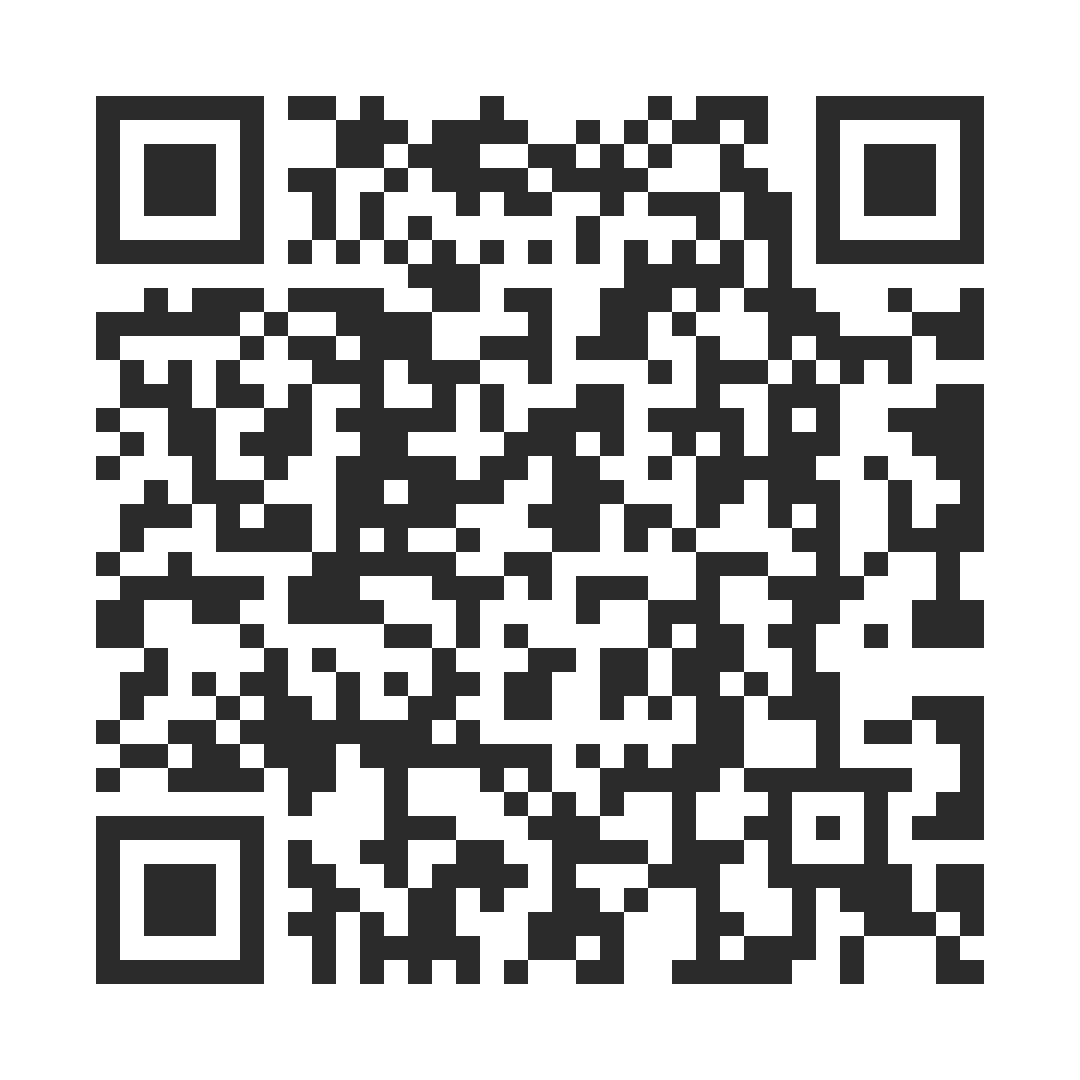
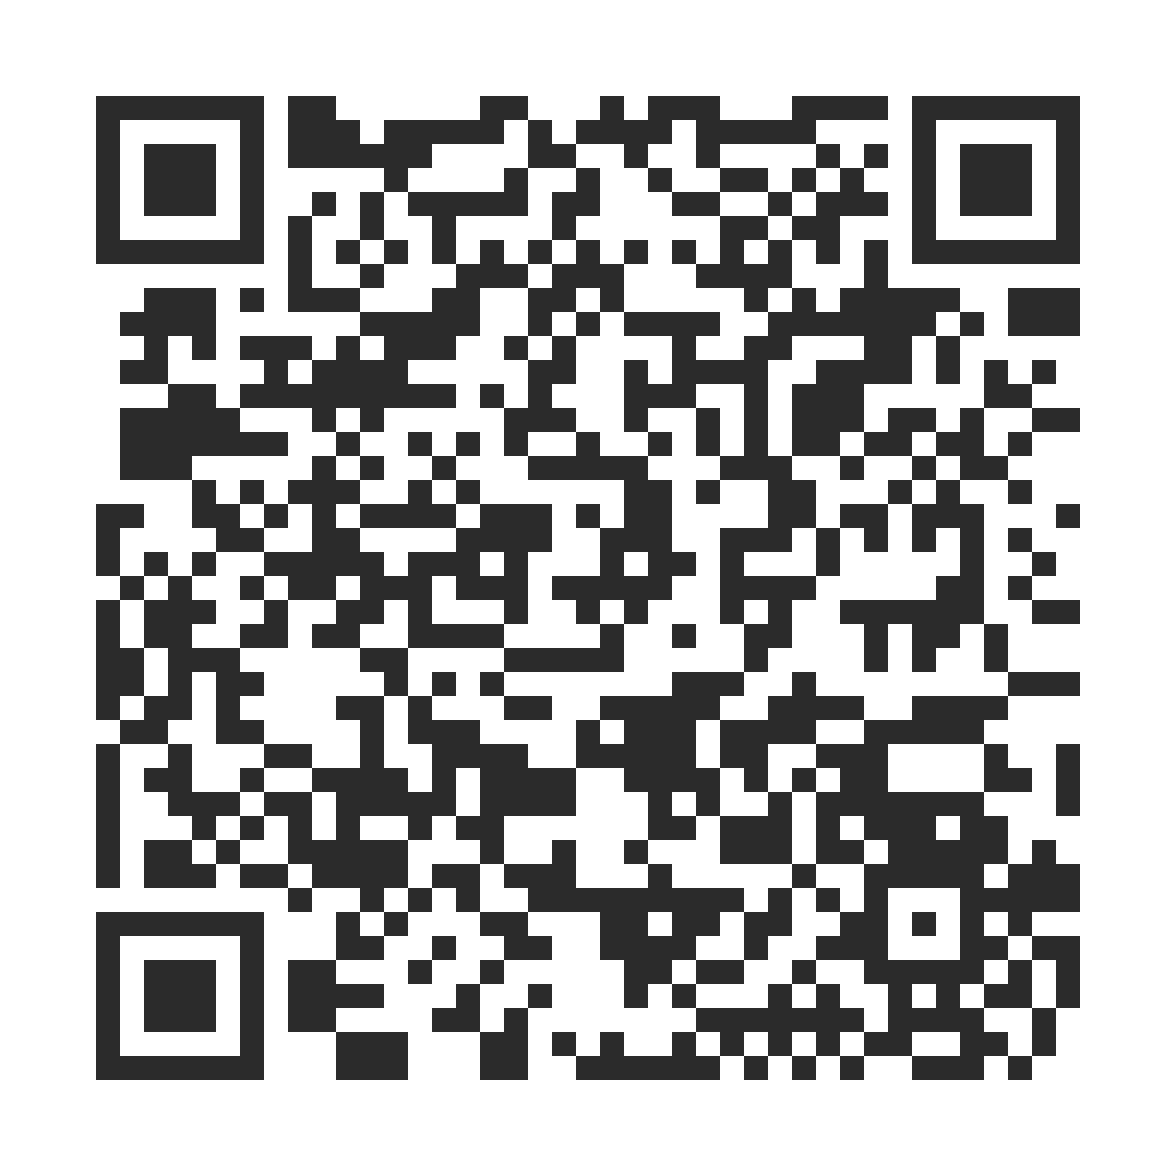
Add files via upload

diff --git a/index.html b/index.html
@@ -359,7 +359,7 @@
         <p><span data-es>Escanéalo con la cámara del móvil o la tablet</span><span data-en>Scan it with your phone or tablet camera</span><span data-ca>Escaneja'l amb la càmera del mòbil o la tauleta</span></p>
       </div>
       <div>
-        <div class="share-url">sebaandrada-cell.github.io/talkpics</div>
+        <div class="share-url">sebaandrada-cell.github.io/talkpics/TalkPics.html</div>
         <div class="share-btns">
           <button class="btn" type="button" onclick="shareTP()"><span data-es>📤 Compartir enlace</span><span data-en>📤 Share link</span><span data-ca>📤 Comparteix l'enllaç</span></button>
           <button class="btn ghost" type="button" onclick="copyTP()"><span data-es>📋 Copiar enlace</span><span data-en>📋 Copy link</span><span data-ca>📋 Copia l'enllaç</span></button>
@@ -517,7 +517,7 @@
 </footer>
 
 <script>
-  var TP_URL="https://sebaandrada-cell.github.io/talkpics/";
+  var TP_URL="https://sebaandrada-cell.github.io/talkpics/TalkPics.html";
   function tpLang(){return document.body.classList.contains('en')?'en':(document.body.classList.contains('ca')?'ca':'es');}
   var TP_MSG={
     es:"TalkPics: app gratuita para comunicarse con fotos reales, pensada para personas autistas no verbales. Funciona sin internet: ",

diff --git a/TalkPics.html b/TalkPics.html
@@ -574,7 +574,15 @@ function readEmbedded(){
 }
 async function load(){
   state.pics=await dbGet("pics"); state.cats=await dbGet("cats"); state.settings=await dbGet("settings");
-  if(!state.settings) state.settings={...DEFAULT_SETTINGS};
+  if(!state.settings){
+    state.settings={...DEFAULT_SETTINGS};
+    // Primera vez en este dispositivo: idioma según ?lang= del enlace o el idioma del navegador
+    try{
+      const q=new URLSearchParams(location.search).get("lang");
+      const nl=((navigator.language||"es")+"").slice(0,2).toLowerCase();
+      if(q==="ca"||(q!=="es"&&nl==="ca")) state.settings.lang="ca";
+    }catch(e){}
+  }
   if(!state.cats) state.cats=[...DEFAULT_CATS];
   // Si no hay datos en este dispositivo pero el archivo trae datos incrustados (app compartida), usarlos
   if(!state.pics){
